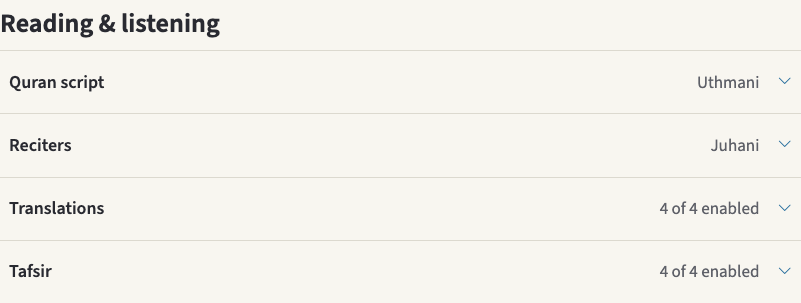
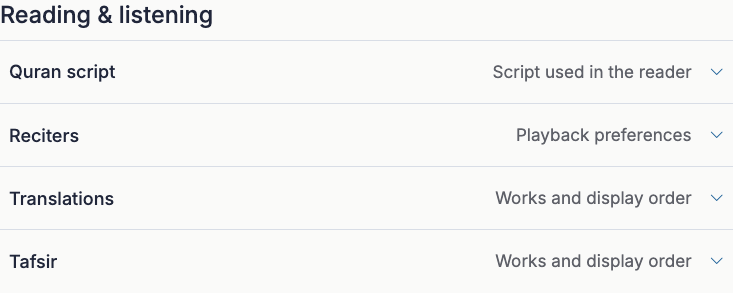
Unify Books and Settings section hierarchy and distinguish collection navigation

diff --git a/docs/design-system/library.html b/docs/design-system/library.html
@@ -26,7 +26,7 @@
   </section>
   <section id="foundations"><h2>Foundations</h2>
     <div class="grid">
-      <article><h3>Interface type</h3><div class="type-sample">Reading &amp; listening</div><strong>Quran script</strong><p>Choose the script used in the reader.</p><label>Search settings <input type="search" placeholder="Search settings"></label><p>Inter weight hierarchy (under review). Use Light (300) for pills and placeholders, Regular (400) for body text, entered values and metadata, and Medium (500) for ordinary emphasis on book titles, settings rows, field labels, navigation and actions. Reserve Semibold (600) for page and section headings. Page and section size and spacing distinguish their levels. Books and Settings share the same responsive page-title scale.</p></article>
+      <article><h3>Interface type</h3><div class="ux-section-title">Reading &amp; listening</div><strong>Quran script</strong><p>Choose the script used in the reader.</p><label>Search settings <input type="search" placeholder="Search settings"></label><p>Inter weight hierarchy (under review). Use Light (300) for pills and placeholders, Regular (400) for body text, entered values and metadata, and Medium (500) for section headings, book titles, settings row names and actions. Page titles use Semibold (600). Both routes use the same ruled section heading at 1.3rem. In expanded Settings panels, use Regular for field captions and current values. Global destinations use Medium at 1rem. Collection tabs use Regular at .9rem, with Medium and the Midnight underline marking the current collection. Books and Settings share the same responsive page-title scale.</p></article>
       <article><h3>Color &amp; focus</h3><div class="palette"><span class="accent">Action</span><span class="text">Text</span><span class="muted">Summary</span><span class="inset">Inset</span></div><p>Lighter Ivory canvas. Use a solid, near-neutral off-white canvas (#FAFAF9) throughout the page. White cards and Midnight headings keep text crisp. Use blue for the current collection and open settings panels. Use ink for text, blue for links and switches, and Midnight indigo for primary actions. Show a two-pixel accent outline on keyboard focus. <a href="../../public/static/css/ivory.css">Palette tokens</a>.</p></article>
     </div>
     <p>Load the <a href="../../public/static/css/ux-foundations.css">foundation stylesheet</a> and apply <code>ux-system</code> to the adopting page container. Its tokens inherit the active site theme. Quran specimens retain their script-specific fonts. Prose and Markdown typography will enter the library with the first finalized reading or authoring page.</p>

diff --git a/public/static/css/books.css b/public/static/css/books.css
@@ -30,7 +30,7 @@ main.book-catalog-page.ux-system { margin-top: var(--ux-page-start); }
 .book-catalog-summary .tafsir-book-title-line:lang(ar),
 .book-catalog-summary .tafsir-book-title-line :lang(ar) { font-size: var(--ux-item-size) !important; font-weight: var(--ux-body-weight); line-height: 1.55; }
 
-.top-nav-desktop-actions a.nav-link, .book-catalog-navigation .nav-link { font: var(--ux-emphasis-weight) 1rem/1.35 var(--ux-font-ui); }
+.book-catalog-navigation .nav-link { font: var(--ux-body-weight) var(--ux-local-nav-size)/1.35 var(--ux-font-ui); }
 .book-catalog-navigation { background: transparent; padding-block: 0; }
 .book-catalog-navigation .chapter-toc-toolbar { justify-content: center; min-width: 0; }
 .book-catalog-navigation .book-catalog-tabs {
@@ -43,7 +43,7 @@ main.book-catalog-page.ux-system { margin-top: var(--ux-page-start); }
 }
 .book-catalog-navigation .nav-link:hover { color: var(--bs-emphasis-color); border-bottom-color: var(--bs-border-color); }
 .site-navbar .book-catalog-navigation .nav-link.active {
-  color: var(--ivory-accent, var(--bs-emphasis-color)); background: transparent; border-image: var(--ux-midnight-fill) 1; text-decoration: none;
+  font-weight: var(--ux-emphasis-weight); color: var(--ivory-accent, var(--bs-emphasis-color)); background: transparent; border-image: var(--ux-midnight-fill) 1; text-decoration: none;
 }
 .book-catalog-navigation .nav-link:focus-visible { outline: 2px solid currentColor; outline-offset: -3px; }
 .catalog-collection-picker { display: none; }
@@ -55,7 +55,7 @@ main.book-catalog-page.ux-system { margin-top: var(--ux-page-start); }
 @media (max-width: 700px) {
   .book-catalog-navigation:has(.catalog-collection-picker:not([hidden])) .book-catalog-tabs { display: none; }
   .catalog-collection-picker:not([hidden]) { display: flex; width: 100%; align-items: center; justify-content: space-between; gap: .75rem; color: var(--bs-secondary-color); font: var(--ux-body-weight) .95rem/1.4 var(--ux-font-ui); }
-  .catalog-collection-picker select { min-height: 44px; max-width: 70%; border: 0; color: var(--bs-emphasis-color); background: var(--bs-body-bg); font: var(--ux-emphasis-weight) 1rem/1.4 var(--ux-font-ui); }
+  .catalog-collection-picker select { min-height: 44px; max-width: 70%; border: 0; color: var(--bs-emphasis-color); background: var(--bs-body-bg); font: var(--ux-emphasis-weight) var(--ux-local-nav-size)/1.4 var(--ux-font-ui); }
 }
 
 .book-catalog-classifications { align-items: center; gap: .3rem; }

diff --git a/public/static/css/settings-beta.css b/public/static/css/settings-beta.css
@@ -3,7 +3,7 @@
   margin-inline: auto;
   margin-bottom: 5rem;
   padding-top: .75rem;
-  padding-inline: clamp(1rem, 4vw, 3rem);
+  padding-inline: var(--bs-gutter-x, 1.5rem);
 }
 .settings-beta-heading, .settings-beta-row > summary {
   display: flex;
@@ -12,7 +12,6 @@
 }
 .settings-beta-heading {
   justify-content: space-between;
-  border-bottom: 1px solid var(--ux-border);
   padding-bottom: var(--ux-title-gap);
 }
 .settings-beta h1, .settings-beta h2, .settings-beta h3 { font-family: inherit; }
@@ -26,8 +25,8 @@
 .settings-beta-index a i { color: var(--ux-accent); }
 .settings-beta-index a:hover, .settings-beta-row > summary:hover { background: var(--ux-inset); }
 .settings-beta-group { margin-bottom: 2rem; }
-.settings-beta-group > h2 { font-size: var(--ux-section-size); font-weight: var(--ux-heading-weight); margin: 0; padding: .4rem 0 .65rem; scroll-margin-top: calc(var(--site-fixed-header-height, 5rem) + 1rem); }
-.settings-beta-row { border-top: 1px solid var(--ux-border); }
+.settings-beta-group > h2 { scroll-margin-top: calc(var(--site-fixed-header-height, 5rem) + 1rem); }
+.settings-beta-row + .settings-beta-row { border-top: 1px solid var(--ux-border); }
 .settings-beta-row > summary { min-height: 3.45rem; padding: .65rem .5rem; cursor: pointer; list-style: none; }
 .settings-beta-row > summary::-webkit-details-marker { display: none; }
 .settings-beta-row > summary strong { flex: 1; font-weight: var(--ux-emphasis-weight); }
@@ -121,7 +120,7 @@
   .settings-beta-layout { display: contents; }
   .settings-beta-heading, #settings-groups { grid-column: 2; padding-inline: calc(var(--bs-gutter-x, 1.5rem) * .5); }
   .settings-beta-heading { grid-row: 1; margin-top: var(--ux-page-start); }
-  #settings-groups { grid-row: 2; margin-top: 1rem; }
+  #settings-groups { grid-row: 2; }
   .settings-beta .settings-beta-index { grid-area: 1 / 4 / 3 / 6; overflow-y: auto; border-inline-start: 1px solid var(--ux-border); }
 }
 @media (max-width: 991.98px) {

diff --git a/public/static/css/ux-foundations.css b/public/static/css/ux-foundations.css
@@ -28,6 +28,7 @@
   --ux-emphasis-weight: 500;
   --ux-heading-weight: 600;
   --ux-item-size: 1.24rem;
+  --ux-local-nav-size: .9rem;
   --ux-caption-size: .82rem;
   --ux-midnight-deep: #273053;
   --ux-midnight-fill: linear-gradient(110deg, #535c9b, #323c6b 68%, var(--ux-midnight-deep));
@@ -41,7 +42,7 @@
   --ux-inset: var(--bs-tertiary-bg, #f8f9fa);
   --ux-border: var(--bs-border-color, #dee2e6);
   --ux-title-size: clamp(2rem, 3vw, 2.75rem);
-  --ux-section-size: 1.4rem;
+  --ux-section-size: 1.3rem;
   --ux-focus-ring: 2px solid var(--ux-accent);
   font: var(--ux-body-weight) 1rem/1.5 var(--ux-font-ui);
   color: var(--ux-text);
@@ -61,6 +62,14 @@
 .ux-system :is(strong, b), .ux-emphasis { font-weight: var(--ux-emphasis-weight); }
 
 .ux-page-title { line-height: var(--ux-title-line); color: var(--ivory-heading, var(--ux-text)); font-family: var(--ux-font-ui); font-size: var(--content-size-h1); font-weight: var(--ux-heading-weight); margin: 0; }
+
+.ux-system .ux-section-title {
+  --content-size-h2: var(--ux-section-size);
+  font: var(--ux-emphasis-weight) var(--ux-section-size)/1.3 var(--ux-font-ui);
+  margin: 0;
+  padding-bottom: .5rem;
+  border-bottom: 1px solid var(--ux-border);
+}
 
 .ux-system .ux-view-selector {
   display: inline-flex;
@@ -136,7 +145,7 @@
   gap: .75rem 1rem;
 }
 .ux-fields .form-label { min-width: 0; max-width: 100%; }
-.ux-fields .form-label > .small { font-size: .9rem; font-weight: var(--ux-emphasis-weight); }
+.ux-fields .form-label > .small { font-size: .9rem; font-weight: var(--ux-body-weight); }
 .ux-fields :is(.form-select, .form-control, .input-group-text) {
   min-height: 2.65rem;
   padding-block: .45rem;

diff --git a/docs/design-system/library.css b/docs/design-system/library.css
@@ -28,7 +28,6 @@ section { border-top: 1px solid var(--ux-border); padding-top: 1.4rem; margin-to
 article { background: var(--ux-surface); border: 1px solid var(--ux-border); border-radius: .6rem; padding: 1rem; min-width: 0; }
 article > :last-child { margin-bottom: 0; }
 article img { display: block; max-width: 100%; height: auto; }
-.type-sample { font-size: var(--ux-section-size); font-weight: var(--ux-heading-weight); }
 .palette { display: flex; gap: .75rem; flex-wrap: wrap; align-items: center; }
 .palette span { padding-block: .2rem; }
 .accent { color: var(--ux-accent); }

diff --git a/public/static/js/book-catalog.js b/public/static/js/book-catalog.js
@@ -274,7 +274,7 @@
         if (hasCategories) {
           var label = groups.get(id) || 'Other books';
           var heading = document.createElement('h2');
-          heading.className = 'book-catalog-category-title';
+          heading.className = 'book-catalog-category-title ux-section-title';
           heading.textContent = label; section.append(heading);
         }
         var grid = document.createElement('div'); grid.className = 'book-catalog-grid'; section.append(grid);

diff --git a/skills/hadithdb-ux-audit/SKILL.md b/skills/hadithdb-ux-audit/SKILL.md
@@ -26,7 +26,7 @@ Concrete Settings comparisons to carry forward:
 - **Switches and actions.** Compare a checked catalog switch with connected Drive and auto-recharge switches. Check the track color, size and visible label. In Drive, exercise disconnected and connected states to reveal the primary Connect, secondary Import, and lightweight folder and disconnect actions.
 - **Control-to-label spacing.** Measure from the painted control edge to the first line of label text in the rendered UI. Padding on a wrapper can be canceled by a floated input or negative margin. Compare a short label with a wrapping one at phone width and enlarged text. Check that continuation lines align with the first word, the switch stays beside the first line, and clicking the label still toggles it.
 - **Round trips and feedback.** Enter a shared destination from each parent route, then use its visible Back link. Verify the originating panel is open and visible, including its Quran or beta variant. Where one page mixes explicit-save and immediate actions, verify each result appears beside the controls that triggered it.
-- **Type hierarchy across routes.** Compare a catalog with the accepted reference page at identical desktop and phone widths. Measure computed type on global and local navigation, rail titles and links, page and group headings, item titles in each script, metadata and badges. When two roles should match, record both computed values at identical viewports and assert equality for family, size, weight and line height. For page titles, run `node skills/hadithdb-ux-audit/scripts/compare-titles.js /settings /books` against the local server. The check fails if any computed value differs. Inspect paired English and Arabic titles together, including diacritics and long names. Compare perceived size at normal reading distance. Put short and long bilingual names in adjacent cards at the same width. Check their row placement, Arabic alignment and whether a size indicator wraps onto a line by itself. Check whether static metadata looks clickable alongside real controls. Inspect the rendered page for headings that read like ordinary rows even when their tap targets are large.
+- **Type hierarchy across routes.** Compare a catalog with the accepted reference page at identical desktop and phone widths. Measure computed type on global and local navigation, rail titles and links, page and group headings, item titles in each script, metadata and badges. When two roles should match, record both computed values at identical viewports and assert equality for family, size, weight and line height. For page titles, run `node skills/hadithdb-ux-audit/scripts/compare-titles.js /settings /books` against the local server. The check fails if any computed value differs. Check the intended size and weight difference between primary navigation and local navigation in both active and inactive states. Compare section-title dividers and mobile content gutters alongside the type measurements. Inspect paired English and Arabic titles together, including diacritics and long names. Compare perceived size at normal reading distance. Put short and long bilingual names in adjacent cards at the same width. Check their row placement, Arabic alignment and whether a size indicator wraps onto a line by itself. Check whether static metadata looks clickable alongside real controls. Inspect the rendered page for headings that read like ordinary rows even when their tap targets are large.
 - **Overlay dismissal.** Compare the X on a drawer, a native dialog and a Bootstrap modal, including dynamically built overlays. At matching widths and themes, inspect the glyph, target, focus ring and hover surface. Activate the X and verify focus returns to the opener. Run `node skills/hadithdb-ux-audit/scripts/compare-overlay-close.js` against local Books beta.
 - **Spacing inside compound controls.** Measure both inner edges in the rendered control, from its boundary to the leading icon and trailing accessory. Compare those distances with the intended insets at the breakpoint and at a wider viewport. Check the winning CSS when dimensions differ. For the beta header, run `node skills/hadithdb-ux-audit/scripts/check-search-insets.js` against the local app.
 - **Shared navigation.** On routes with a fixed header, measure how much of the first phone viewport remains for content. Open a later collection directly and check that its active tab is visible. Measure immediately below and above each breakpoint, then repeat after scrolling. Check icon hit areas, drawer focus and Escape return, including overlap with persistent bottom controls. Compare the footer height, surface and type scale with the last content section on desktop and phone. At the end of the list, activate footer links above the bottom controls.
